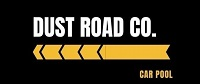
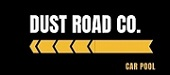
Responsive view

diff --git a/index.css b/index.css
@@ -272,26 +272,25 @@ form{
 img.fav{
          padding-top: 4px;
          padding-left: 0%;
-         padding-right: 90%;
       }
 
       .logo{
             padding-top: 4px;
-            margin-right: 4%;
+            margin-right: -1%;
          }
          .explore{
              margin-left:50%;
             }
             .social{
-                margin-right:4%;
-                transform: translateY(-540%);
+                margin-right:1%;
+                transform: translateY(-534%);
                 
                }
                .fab{
                 font-size:27px;
             }
             header ul li a{
-               font-size:16px;
+               font-size:15px;
             }
       }
 

diff --git a/sawo.html b/sawo.html
@@ -11,7 +11,7 @@
 </head>
 <body>
     <header>
-        <a href="#" class="logo">
+        <a href="index.html" class="logo">
             <img src="./Images/banner.jpg" class="fav">
         </a>
         <ul id="navbarNav" class="list">
@@ -53,6 +53,7 @@
     header.classList.toggle("sticky",window.scrollY > 0);
     });
     </script>
+
 
 </body>
 </html>

diff --git a/sawo.css b/sawo.css
@@ -16,3 +16,4 @@ body {
     color: #fff;
     padding-bottom: 21px;
 }
+
